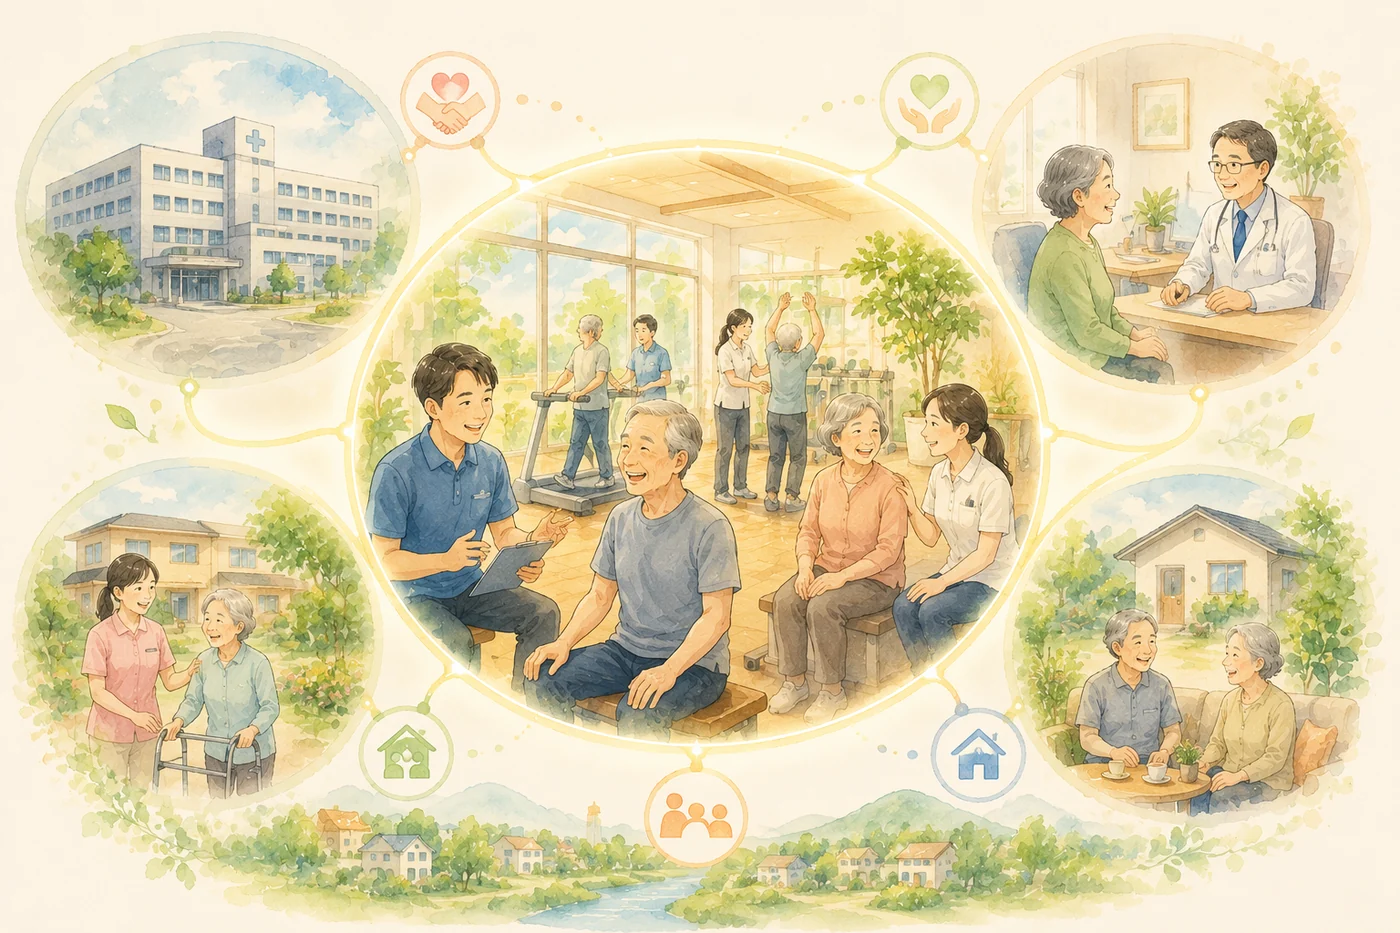
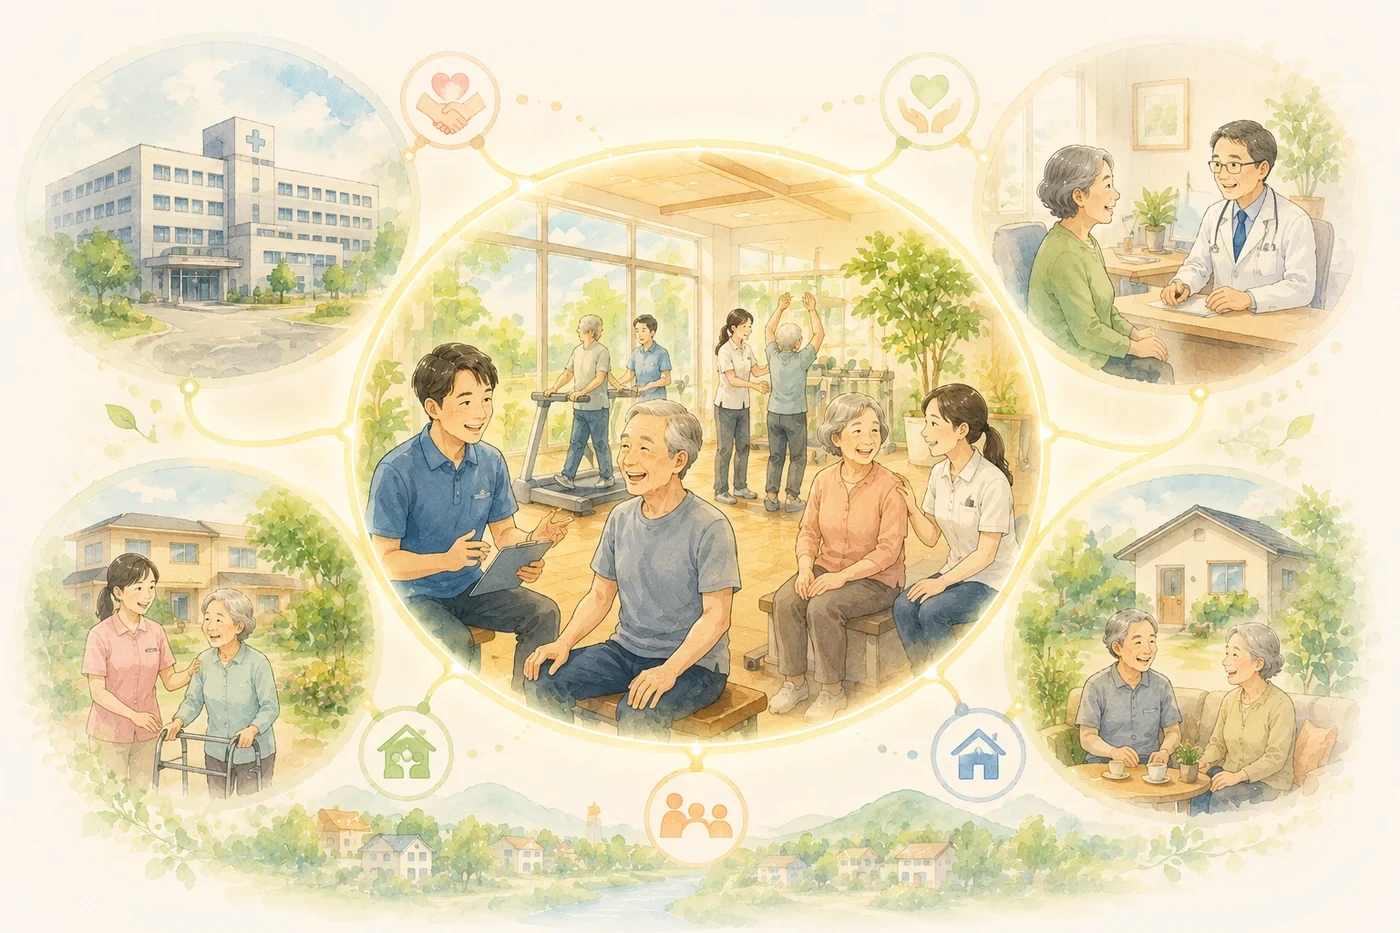
画像の縁を実データレベルでフェード加工（背景色へ溶ける処理）。CSSマスクでは効果が分かりにくかったため画像側で対応し、枠線・影も除去して完全になじませる

diff --git a/about.html b/about.html
@@ -1116,7 +1116,7 @@ table{ max-width:100%; }
 /* ===== 3つの芯：イラスト図解 ===== */
 .tr-cores-fig{ margin:36px auto 46px; max-width:900px; }
 .tcf-inner{ position:relative; }
-.tcf-img{ width:100%; height:auto; display:block; border-radius:16px; }
+.tcf-img{ width:100%; height:auto; display:block; }
 .tcf-lbl{ position:absolute; text-align:center; line-height:1.25; color:#fff; text-shadow:0 2px 6px rgba(0,0,0,.22); }
 .tcf-lbl b{ display:block; font-family:"Kiwi Maru","Zen Maru Gothic",var(--font-head); font-weight:500; font-size:clamp(17px,2.5vw,29px); letter-spacing:.08em; }
 .tcf-lbl i{ display:block; font-style:normal; font-family:var(--font-body); font-size:clamp(9px,1.15vw,13px); letter-spacing:.3em; margin-top:2px; opacity:.95; }
@@ -1136,12 +1136,12 @@ table{ max-width:100%; }
 
 /* ===== 各章の挿絵 ===== */
 .tr-chapfig{ margin:24px 0 28px; }
-.tr-chapfig img{ width:100%; height:auto; display:block; border-radius:16px; box-shadow:0 8px 22px rgba(38,70,83,.10); }
+.tr-chapfig img{ width:100%; height:auto; display:block; }
 @media (max-width:760px){ .tr-chapfig{ margin:18px 0 22px; } .tr-chapfig img{ border-radius:12px; } }
 
 /* ===== 締めの挿絵 ===== */
 .tr-closefig{ margin:64px auto 0; max-width:900px; }
-.tr-closefig img{ width:100%; height:auto; display:block; border-radius:18px; }
+.tr-closefig img{ width:100%; height:auto; display:block; }
 .tr-closefig + .tr-closing{ margin-top:26px !important; }
 @media (max-width:760px){ .tr-closefig{ margin-top:44px; } .tr-closefig img{ border-radius:12px; } }
 </style>
